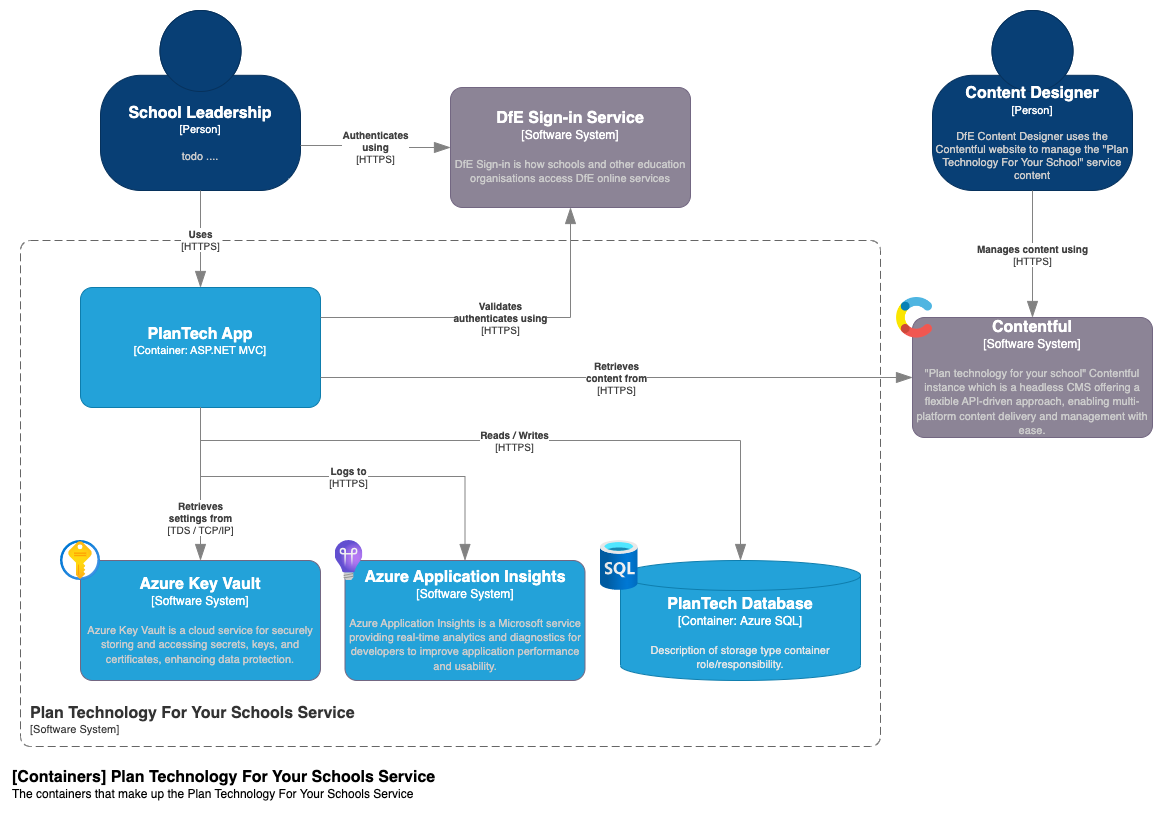
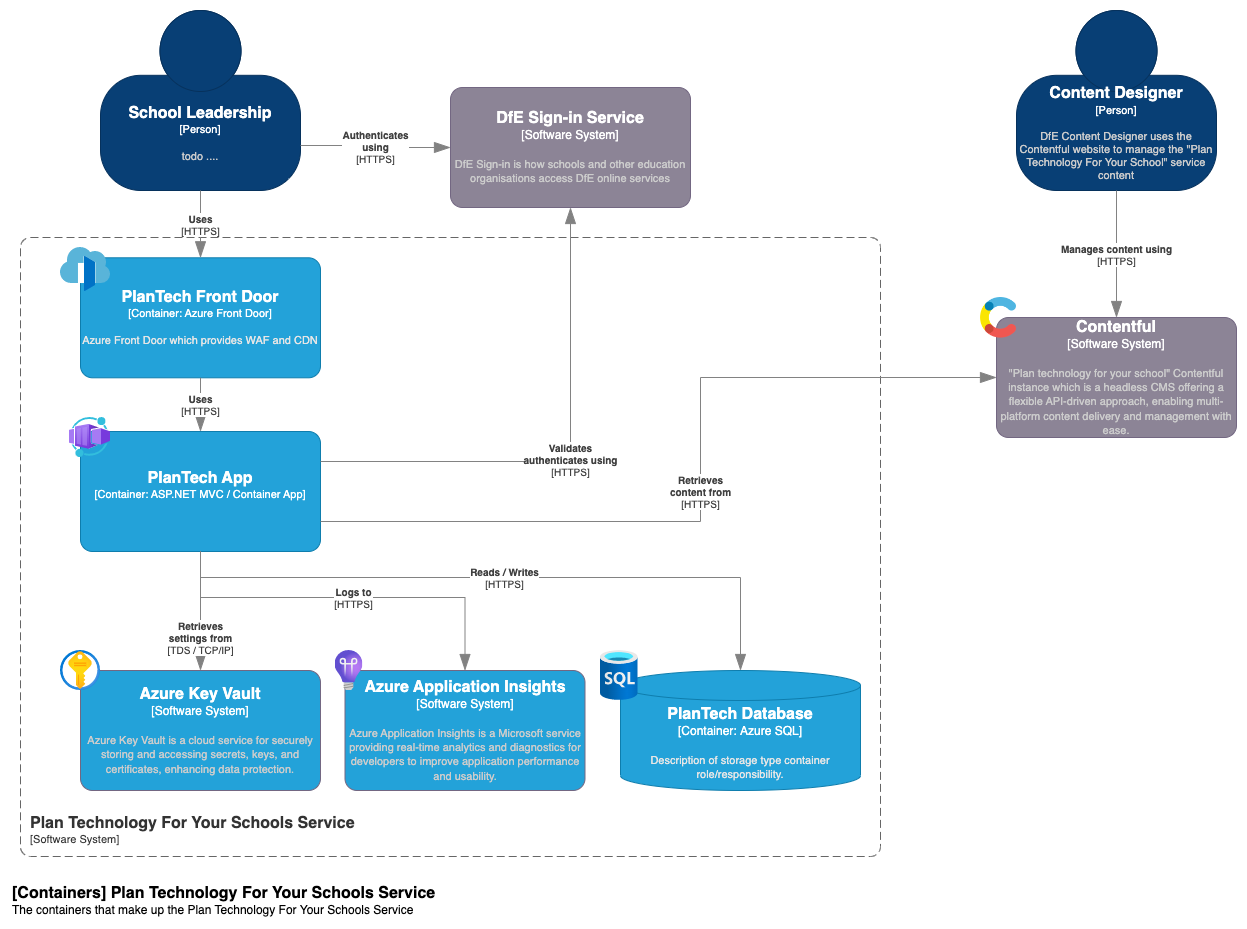
updated C4 diagram and terraform docs (#38)

diff --git a/terraform/README.md b/terraform/README.md
@@ -12,9 +12,13 @@ The following article discusses developer tools and how to run the **Terraform**
     - [Authenticating using Service Principle](#authenticating-using-service-principle)
     - [Terraform Init](#terraform-init)
     - [Terraform Plan](#terraform-plan)
+    - [Terraform Plan](#terraform-plan-1)
     - [Terraform Validate](#terraform-validate)
     - [Terraform Format](#terraform-format)
   - [Terraform Documentation](#terraform-documentation)
+  - [Troubleshooting](#troubleshooting)
+    - [Logging](#logging)
+    - [Output variables](#output-variables)
 
 ## Developer tools
 
@@ -59,7 +63,7 @@ When you make changes to the Terraform Config, ensure you run the following as t
 
 This section discusses how to set-up and run Terraform locally on a development machine.
 
-⚠ do not update the example Terraform configuration files with sensitive information and commit to repo ⚠ 
+⚠ Avoid committing any updates to the repository that include sensitive information in the example Terraform configuration files ⚠
 
 ### Authenticating using Service Principle
 The Terraform configuration can be executed using an Azure Service Principle.  To do this you'll need to set the following environment variables:
@@ -99,6 +103,12 @@ Run the following command to execute the Plan commande:
 
 `terraform plan -var-file="terraform.tfvars"`
 
+### Terraform Plan
+
+Use the apply command to apply the changes to the Azure environment.
+
+`terraform plan -var-file="terraform.tfvars"`
+
 ### Terraform Validate
 
 The terraform validate command validates the configuration files.
@@ -118,3 +128,23 @@ When the Terraform configuration is updated, the module documentation will need 
 `terraform-docs markdown .` 
 
 This will generate the `terraform-configuration.md` markdown file.
+
+## Troubleshooting
+
+### Logging
+To help troubleshoot Terraform, you can turn on [Terraform logging](https://developer.hashicorp.com/terraform/tutorials/configuration-language/troubleshooting-workflow#enable-terraform-logging) which can be directed to a file.
+
+To turn on logging create the following environment variable with either DEBUG or TRACE
+
+`export TF_LOG=DEBUG`
+
+To direct the output to a file, set the following environment variable. Terraform appends to the log file so consider deleting it before running terraform. 
+
+`export TF_LOG_PATH=terraform.log`
+
+### Output variables
+Another useful tip for debugging Terraform is to utilise output variables, refer to the [Output Data from Terraform](https://developer.hashicorp.com/terraform/tutorials/configuration-language/outputs) article.  
+
+The values of output variables are included within the log file so they can be reviewed.  
+
+⚠ Avoid committing any updates to the Terraform configuration files that include output variables for debugging purposes ⚠
